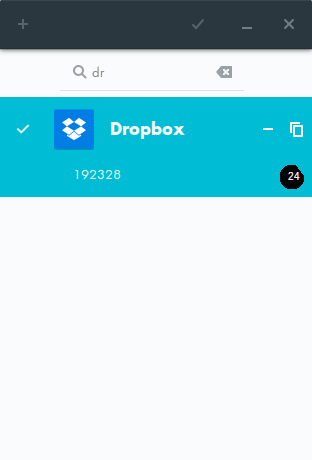
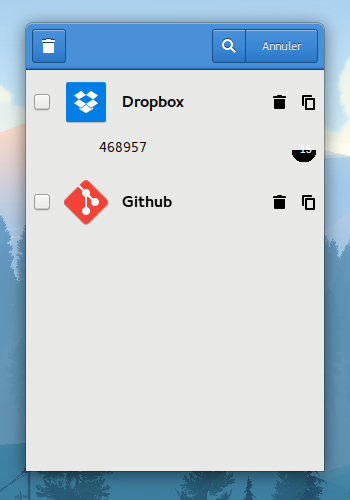
update screenshots

diff --git a/README.md b/README.md
@@ -2,18 +2,16 @@
 
 # TwoFactorAuth
 Two-factor authentication generator for Gnome
-
+For translators : https://www.transifex.com/twofactorauth/twofactorauth/
 ### Dependecies 
 - `Python 3.3+`
 - `Gtk 3.18+`
 - `PyOTP`
 
-### Features
-- To complete later..
-
 ### Screenshots
 
-![Screenshot](screenshots/screenshot1.png) ![Screenshot](screenshots/screenshot2.png)
+![Screenshot](screenshots/screenshot1.png) ![Screenshot](screenshots/screenshot2.png)![Screenshot](screenshots/screenshot3.png) 
+![Screenshot](screenshots/screenshot4.png)![Screenshot](screenshots/screenshot5.png) ![Screenshot](screenshots/screenshot6.png)
 
 ### Credits
 - Websites and application icons are from Paper theme, created by [Sam Hewitt](https://github.com/snwh)
